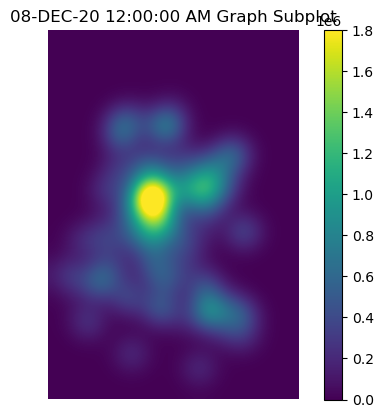
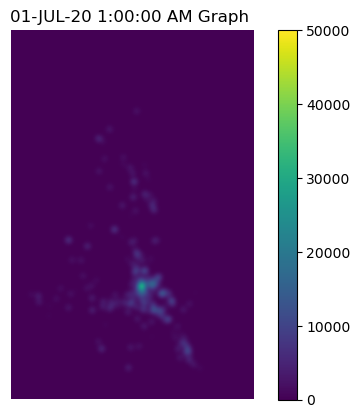
test

diff --git a/main.py b/main.py
@@ -123,7 +123,8 @@ def createArray(directory, dateTime):
     Subbox = None
     
     if locationRadioButton.get() == "Brisbane":
-        Subbox = ((-27.795713993519306, 153.19807187264893), (-27.298858301659403, 152.82594294487124))
+        # Subbox = ((-27.795713993519306, 153.19807187264893), (-27.298858301659403, 152.82594294487124))
+        Subbox = ((-27.61328568848432, 153.21056146895143), (-27.253886818529896, 152.92951384959727))
     else: 
         Subbox = ((-33.682774118437905, 151.02984591706766), (-34.01072565610798, 151.3238529358113))
     
@@ -163,16 +164,46 @@ def createArray(directory, dateTime):
     ### Create an empty array and then populate with data of a set datetime
     DisplayArray = np.zeros([arrayHeight + heightOffset*2,arrayWidth + widthOffset*2],dtype=np.float32())
     for l in adjustedDisplayCoords:
-        if entireDayState.get() == 0:
-            DisplayArray[l[1]][l[2]] = float(MW[l[0]][dateTime[0]][dateTime[1]])*1000000
+        if entireDayState.get() == 1:
+            if yearAverage.get() == 1:
+                a = 0
+                for x in MW[l[0]]:
+                    if x != "nan":
+                        a += sum(MW[l[0]][x].values())*1000000
+                DisplayArray[l[1]][l[2]] = a / len(MW[l[0]])
+            else:
+                DisplayArray[l[1]][l[2]] = sum(MW[l[0]][dateTime[0]].values())*1000000
+        elif dayState.get() == 1:
+            times = ["6:00:00 AM","6:30:00 AM","7:00:00 AM","7:30:00 AM","8:00:00 AM","8:30:00 AM",
+                    "9:00:00 AM","9:30:00 AM","10:00:00 AM","10:30:00 AM","11:00:00 AM","11:30:00 AM","12:00:00 PM","12:30:00 PM","1:00:00 PM",
+                    "1:30:00 PM","2:00:00 PM","2:30:00 PM","3:00:00 PM","3:30:00 PM","4:00:00 PM","4:30:00 PM","5:00:00 PM","5:30:00 PM"]
+            if yearAverage.get() == 1:
+                for x in MW[l[0]]:
+                    if x != "nan":
+                        a += sum(MW[l[0]][x].values())*1000000
+                DisplayArray[l[1]][l[2]] = a / len(MW[l[0]])
+            else:
+                DisplayArray[l[1]][l[2]] = sum(MW[l[0]][dateTime[0]].values())*1000000
+        elif nightState.get() == 1:
+            times = ["12:00:00 AM","12:30:00 AM","1:00:00 AM","1:30:00 AM","2:00:00 AM","2:30:00 AM","3:00:00 AM","3:30:00 AM","4:00:00 AM",
+                 "4:30:00 AM","5:00:00 AM","5:30:00 AM","6:00:00 PM","6:30:00 PM","7:00:00 PM","7:30:00 PM","8:00:00 PM","8:30:00 PM",
+                 "9:00:00 PM","9:30:00 PM","10:00:00 PM","10:30:00 PM","11:00:00 PM","11:30:00 PM"]
         else:
-            DisplayArray[l[1]][l[2]] = sum(MW[l[0]][dateTime[0]].values())*1000000
+            if yearAverage.get() == 1:
+                a = 0
+                for x in MW[l[0]]:
+                    if x != "nan":
+                        a += MW[l[0]][x][dateTime[1]]*1000000
+                DisplayArray[l[1]][l[2]] = a / len(MW[l[0]])
+            else:
+                DisplayArray[l[1]][l[2]] = float(MW[l[0]][dateTime[0]][dateTime[1]])*1000000
+            
     DisplayArray = np.nan_to_num(DisplayArray) 
     
     ### Apply Gaussian filter to 'blur' around the given area to show results whilst ensuring they still sum to the original
 
     gauss = gaussian_filter(DisplayArray, sigma=25)
-    np.save("./Data/preprocessedPlots/" + dateTime[0] + "-" + dateTime[1].replace(":","-") + (" Bris " if locationRadioButton.get() == "Brisbane" else "") + (" Day " if entireDayState.get() == 1 else "") + ("Subplot.npy" if loadSubbox.get() == 1 else "Plot.npy"),gauss)
+    np.save("./Data/preprocessedPlots/" + dateTime[0] + "-" + (" Day " if entireDayState.get() == 1 else dateTime[1].replace(":","-")) + (" Bris " if locationRadioButton.get() == "Brisbane" else " Syd ") + (" AVG " if yearAverage.get()==1 else "") + ("Subplot.npy" if loadSubbox.get() == 1 else "Plot.npy"),gauss)
 
 def displayArray(arr):
     global dateTime    
@@ -203,30 +234,6 @@ def saveGifFrames(arr,dateTime):
     
 def timeUpdate(*args):
     timeLable.configure(text= hourVar.get() + ":" + minuteVar.get() + ":00 " + ampmVar.get() + " on " + cal.get_date())
-
-def grayOptions(*args):
-    if GIFtoDayState.get() == 1:
-        hourPicker['state'] = DISABLED
-        minutePicker['state'] = DISABLED
-        ampnPicker['state'] = DISABLED
-        entireDayButton['state'] = DISABLED
-    else:
-        hourPicker['state'] = NORMAL
-        minutePicker['state'] = NORMAL
-        ampnPicker['state'] = NORMAL
-        entireDayButton['state'] = NORMAL
-        
-def grayOptions2(*args):
-    if entireDayState.get() == 1:
-        hourPicker['state'] = DISABLED
-        minutePicker['state'] = DISABLED
-        ampnPicker['state'] = DISABLED
-        GIFtoDayButton['state'] = DISABLED
-    else:
-        hourPicker['state'] = NORMAL
-        minutePicker['state'] = NORMAL
-        ampnPicker['state'] = NORMAL
-        GIFtoDayButton['state'] = NORMAL
     
 def generateGIF():
     dataTimes = ["12:00:00 AM","12:30:00 AM","1:00:00 AM","1:30:00 AM","2:00:00 AM","2:30:00 AM","3:00:00 AM","3:30:00 AM","4:00:00 AM",
@@ -241,9 +248,9 @@ def generateGIF():
         print("\r" + str(counter) + " / " + str(len(dataTimes)) + " Frames Generated", end = '')
         date = str(cal.get_date()).split("/")
         dateTime = [date[1].zfill(2) + "-" + datetime.datetime.strptime(date[0], "%m").strftime("%b").upper()  + "-" + date[2],times]
-        if not os.path.exists("./Data/preprocessedPlots/" + dateTime[0] + "-" + dateTime[1].replace(":","-") + (" Bris " if locationRadioButton.get() == "Brisbane" else " Syd ") + ("Subplot.npy" if loadSubbox.get() == 1 else "Plot.npy")):
+        if not os.path.exists("./Data/preprocessedPlots/" + dateTime[0] + "-" + (" Day " if entireDayState.get() == 1 else dateTime[1].replace(":","-")) + (" Bris " if locationRadioButton.get() == "Brisbane" else " Syd ") + (" AVG " if yearAverage.get()==1 else "") + ("Subplot.npy" if loadSubbox.get() == 1 else "Plot.npy")):
             createArray(".\Data", dateTime)
-        currentArray = np.load("./Data/preprocessedPlots/" + dateTime[0] + "-" + dateTime[1].replace(":","-") + (" Bris " if locationRadioButton.get() == "Brisbane" else " Syd ") + ("Subplot.npy" if loadSubbox.get() == 1 else "Plot.npy"))
+        currentArray = np.load("./Data/preprocessedPlots/" + dateTime[0] + "-" + (" Day " if entireDayState.get() == 1 else dateTime[1].replace(":","-")) + (" Bris " if locationRadioButton.get() == "Brisbane" else " Syd ") + (" AVG " if yearAverage.get()==1 else "") + ("Subplot.npy" if loadSubbox.get() == 1 else "Plot.npy"))
         saveGifFrames(currentArray,dateTime)
         FDs.append((times, fractal_dimension_grayscale(currentArray)[0]))
         counter += 1
@@ -272,15 +279,85 @@ def loadData():
     if GIFtoDayState.get() == 0:
         date = str(cal.get_date()).split("/")
         dateTime = [date[1].zfill(2) + "-" + datetime.datetime.strptime(date[0], "%m").strftime("%b").upper()  + "-" + date[2],hourVar.get() + ":" + minuteVar.get() + ":00 " + ampmVar.get()]
-        if not os.path.exists("./Data/preprocessedPlots/" + dateTime[0] + "-" + dateTime[1].replace(":","-") + (" Bris " if locationRadioButton.get() == "Brisbane" else " Syd ") + (" Day " if entireDayState.get() == 1 else "") + ("Subplot.npy" if loadSubbox.get() == 1 else "Plot.npy")):
+        if not os.path.exists("./Data/preprocessedPlots/" + dateTime[0] + "-" + (" Day " if entireDayState.get() == 1 else dateTime[1].replace(":","-")) + (" Bris " if locationRadioButton.get() == "Brisbane" else " Syd ") + (" AVG " if yearAverage.get()==1 else "") + ("Subplot.npy" if loadSubbox.get() == 1 else "Plot.npy")):
             loadMWData(".\Data\Substations\Brisbane" if locationRadioButton.get() == "Brisbane" else ".\Data\Substations\Sydney")
             createArray(".\Data", dateTime)
-        currentArray = np.load("./Data/preprocessedPlots/" + dateTime[0] + "-" + dateTime[1].replace(":","-") + (" Bris " if locationRadioButton.get() == "Brisbane" else " Syd ") + (" Day " if entireDayState.get() == 1 else "") + ("Subplot.npy" if loadSubbox.get() == 1 else "Plot.npy"))
+        currentArray = np.load("./Data/preprocessedPlots/" + dateTime[0] + "-" + (" Day " if entireDayState.get() == 1 else dateTime[1].replace(":","-")) + (" Bris " if locationRadioButton.get() == "Brisbane" else " Syd ") + (" AVG " if yearAverage.get()==1 else "") + ("Subplot.npy" if loadSubbox.get() == 1 else "Plot.npy"))
         displayArray(currentArray)
+        print(fractal_dimension_grayscale(currentArray)[0])
         fractalValue.set(fractal_dimension_grayscale(currentArray)[0])
     else:
         generateGIF()
         
+# def GIFtoDayStateGray(*args):
+#     if GIFtoDayState.get() == 1:
+#         hourPicker['state'] = DISABLED
+#         minutePicker['state'] = DISABLED
+#         ampnPicker['state'] = DISABLED
+#         entireDayButton['state'] = DISABLED
+#         nightButton['state'] = DISABLED
+#         dayButton['state'] = DISABLED
+#     else:
+#         hourPicker['state'] = NORMAL
+#         minutePicker['state'] = NORMAL
+#         ampnPicker['state'] = NORMAL
+#         entireDayButton['state'] = NORMAL
+#         nightButton['state'] = NORMAL
+#         dayButton['state'] = NORMAL
+        
+# def EntireYearButtonStateGray(*args):
+#     if yearAverage.get() == 1:
+#         cal['state'] = DISABLED
+#     else:
+#         cal['state'] = NORMAL
+        
+# def EntireDayButtonStateGray(*args):
+#     if entireDayState.get() == 1:
+#         nightButton['state'] = DISABLED
+#         dayButton['state'] = DISABLED
+#         hourPicker['state'] = DISABLED
+#         minutePicker['state'] = DISABLED
+#         ampnPicker['state'] = DISABLED
+#         GIFtoDayButton['state'] = DISABLED
+#     else:
+#         nightButton['state'] = NORMAL
+#         dayButton['state'] = NORMAL
+#         hourPicker['state'] = NORMAL
+#         minutePicker['state'] = NORMAL
+#         ampnPicker['state'] = NORMAL
+#         GIFtoDayButton['state'] = NORMAL
+        
+# def dayStateGray(*args):
+#     if dayState.get() == 1:
+#         nightButton['state'] = DISABLED
+#         entireDayButton['state'] = DISABLED
+#         hourPicker['state'] = DISABLED
+#         minutePicker['state'] = DISABLED
+#         ampnPicker['state'] = DISABLED
+#         GIFtoDayButton['state'] = DISABLED
+#     else:
+#         nightButton['state'] = NORMAL
+#         entireDayButton['state'] = NORMAL
+#         hourPicker['state'] = NORMAL
+#         minutePicker['state'] = NORMAL
+#         ampnPicker['state'] = NORMAL
+#         GIFtoDayButton['state'] = NORMAL
+        
+# def nightStateGray(*args):
+#     if nightState.get() == 1:
+#         dayButton['state'] = DISABLED
+#         entireDayButton['state'] = DISABLED
+#         hourPicker['state'] = DISABLED
+#         minutePicker['state'] = DISABLED
+#         ampnPicker['state'] = DISABLED
+#         GIFtoDayButton['state'] = DISABLED
+#     else:
+#         dayButton['state'] = NORMAL
+#         entireDayButton['state'] = NORMAL
+#         hourPicker['state'] = NORMAL
+#         minutePicker['state'] = NORMAL
+#         ampnPicker['state'] = NORMAL
+#         GIFtoDayButton['state'] = NORMAL
 
 window = Tk()
 window.iconbitmap('./Images/icon.ico')
@@ -315,12 +392,22 @@ if __name__ == "__main__":
     #load GIF of day checkbox
     GIFtoDayState = IntVar()
     GIFtoDayButton = Checkbutton(window, text = "GIF of Day", variable=GIFtoDayState)
-    GIFtoDayButton.grid(column=3,row=6)
+    GIFtoDayButton.grid(column=2,row=7)
     
-    #load day checkbox
-    entireDayState = IntVar()
-    entireDayButton = Checkbutton(window, text = "Entire Day", variable=entireDayState)
-    entireDayButton.grid(column=3,row=7)
+    #load entire day checkbox
+    # entireDayState = IntVar()
+    # entireDayButton = Checkbutton(window, text = "Entire Day", variable=entireDayState)
+    # entireDayButton.grid(column=3,row=7)
+    
+    #Load daylight hours checkbox
+    # dayState = IntVar()
+    # dayButton = Checkbutton(window, text = "Daylight", variable=dayState)
+    # dayButton.grid(column=3,row=8)
+    
+    #load nighttime hours checkbox
+    nightState = IntVar()
+    nightButton = Checkbutton(window, text = "Nighttime", variable=nightState)
+    nightButton.grid(column=3,row=9)
     
     #time picker
     hourLabel =Label(window, text="Hour")
@@ -344,12 +431,6 @@ if __name__ == "__main__":
     ampnPicker = OptionMenu(window, ampmVar , 'AM','PM')
     ampnPicker.grid(column=3,row=3)
     
-    hourVar.trace("w",timeUpdate)
-    minuteVar.trace("w",timeUpdate)
-    ampmVar.trace("w",timeUpdate)
-    GIFtoDayState.trace("w",grayOptions)
-    entireDayState.trace("w",grayOptions2)
-    
     timeLable =Label(window, text= hourVar.get() + ":" + minuteVar.get() + ":00 " + ampmVar.get() + " on " + cal.get_date())
     timeLable.grid(column=1,row=5,columnspan=3)
     
@@ -359,6 +440,11 @@ if __name__ == "__main__":
     subboxButton.grid(column=2,row=6)
     # loadSubbox.set(1)
     
+    #Filters data to average of all data
+    yearAverage= IntVar()
+    yearAverageButton = Checkbutton(window, text = "Year Average", variable=yearAverage)
+    yearAverageButton.grid(column=2,row=7)
+    
     #radio button for Sydney and Brisbane
     locationRadioButton = StringVar(window, "Brisbane")
     radioBrisbane = Radiobutton(window, text="Brisbane", value="Brisbane", variable=locationRadioButton)
@@ -366,12 +452,33 @@ if __name__ == "__main__":
     radioBrisbane.grid(column=1,row=6)
     radioSydney.grid(column=1,row=7)
     
+    #radio button for Sydney and Brisbane
+    timeFrame = StringVar(window, "Brisbane")
+    radTimeHour = Radiobutton(window, text="Hour", value="Hour", variable=locationRadioButton)
+    radTimeDay = Radiobutton(window, text="Day", value="Day", variable=locationRadioButton)
+    radTimeNight = Radiobutton(window, text="Night", value="Night", variable=locationRadioButton)
+    radTimeAllDay = Radiobutton(window, text="Entire Day", value="Entire Day", variable=locationRadioButton)
+    
+    radTimeHour.grid(column=3,row=6)
+    radTimeDay.grid(column=3,row=7)
+    radTimeNight.grid(column=3,row=8)
+    radTimeAllDay.grid(column=3,row=9)
+    
     #Fractal Display
     fractalValue = StringVar(window, "Load data first")
     fractalLabelTitle = Label(window, text="Fractal Value")
     fractalLabel = Label(window, textvariable=fractalValue)
     fractalLabelTitle.grid(column=5, row=0)
     fractalLabel.grid(column=5, row=1, rowspan=8, sticky = 'nw')
+    
+    hourVar.trace("w",timeUpdate)
+    minuteVar.trace("w",timeUpdate)
+    ampmVar.trace("w",timeUpdate)
+    GIFtoDayState.trace("w",GIFtoDayStateGray)
+    # yearAverage.trace("w",EntireYearButtonStateGray)
+    # entireDayState.trace("w",EntireDayButtonStateGray)
+    # dayState.trace("w",dayStateGray)
+    nightState.trace("w",nightStateGray)
 
     # Load button
     btn = Button(window, text="Load Data", command=loadData)
